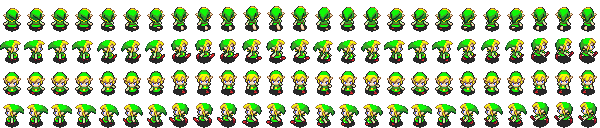
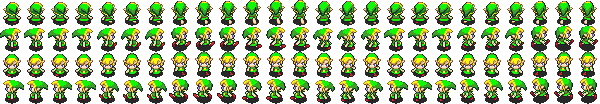
add entity struct

diff --git a/topdwn.c b/topdwn.c
@@ -12,12 +12,21 @@
 #define ANIM_FPS 30
 #define FRAMES 24
 #define SPRITE_W 24
-#define SPRITE_H 32
+#define SPRITE_H 26
 
 #define UP    keys[SDL_SCANCODE_UP]
 #define DOWN  keys[SDL_SCANCODE_DOWN]
 #define LEFT  keys[SDL_SCANCODE_LEFT]
 #define RIGHT keys[SDL_SCANCODE_RIGHT]
+
+typedef struct			s_entity
+{
+	SDL_Rect		dst;
+	SDL_Rect		src;
+	SDL_Texture		*tex;
+	SDL_Point		mov;
+	int				dir;
+}						t_entity;
 
 int		init(SDL_Window **win, SDL_Renderer **render)
 {
@@ -66,15 +75,15 @@ SDL_Texture	*load_img(SDL_Renderer *render, char *path)
 	return (tex);
 }
 
-void	load_player(SDL_Renderer *render, SDL_Texture **tex, SDL_Rect *src, SDL_Rect *dst)
+void	load_player(SDL_Renderer *render, t_entity *p)
 {
-	*tex = load_img(render, "test.png");
-	dst->w = SPRITE_W * 4;
-	dst->h = SPRITE_H * 4;
-	dst->x = (WIN_W / 2) - (dst->w / 2);
-	dst->y = (WIN_H / 2) - (dst->h / 2);
-	src->w = SPRITE_W;
-	src->h = SPRITE_H;
+	p->tex = load_img(render, "test.png");
+	p->dst.w = SPRITE_W * 4;
+	p->dst.h = SPRITE_H * 4;
+	p->dst.x = (WIN_W / 2) - (p->dst.w / 2);
+	p->dst.y = (WIN_H / 2) - (p->dst.h / 2);
+	p->src.w = SPRITE_W;
+	p->src.h = SPRITE_H;
 }
 
 
@@ -97,17 +106,21 @@ void	handle_keys(SDL_Window *win, const Uint8 *keys, int *dir, SDL_Point *mov)
 	SDL_PumpEvents();
 	mov->x = (LEFT || RIGHT) * SPEED * (-1 * (!RIGHT) + RIGHT);
 	mov->y = (UP || DOWN) * SPEED * (-1 * UP + (!UP));
+}
+
+void	move(SDL_Rect *dst, SDL_Point *mov)
+{
+	mov->x = (dst->x + mov->x < 0) ? mov->x - (dst->x + mov->x) : mov->x;
+	mov->x = (dst->x + mov->x + dst->w > WIN_W) ? mov->x - (dst->w + dst->x - WIN_W) : mov->x;
+	mov->y = (dst->y + mov->y < 0) ? mov->y - (dst->y + mov->y) : mov->y;
+	mov->y = (dst->y + mov->y + dst->h > WIN_H) ? mov->y - (dst->h + dst->y - WIN_H) : mov->y;
 	if (mov->x && mov->y)
 	{
 		mov->x /= 2;
 		mov->y /= 2;
 	}
-}
-
-void	move(SDL_Rect *dst, SDL_Point mov)
-{
-		dst->x += mov.x;
-		dst->y += mov.y;
+	dst->x += mov->x;
+	dst->y += mov->y;
 }
 
 void	anim(SDL_Rect *src, int dir, const Uint8 *keys)
@@ -131,26 +144,26 @@ void	anim(SDL_Rect *src, int dir, const Uint8 *keys)
 
 void	loop(SDL_Window *win, SDL_Renderer *render)
 {
-	SDL_Rect		dst;
-	SDL_Rect		src;
-	SDL_Texture		*tex;
+	t_entity		p;
 	const Uint8		*keys = SDL_GetKeyboardState(NULL);
-	SDL_Point		mov;
-	int				dir;
 	unsigned int	ticks;
 
-	load_player(render, &tex, &src, &dst);
-	dir = 2;
+	load_player(render, &p);
+	p.dir = 2;
 	while (!SDL_QuitRequested())
 	{
-		handle_keys(win, keys, &dir, &mov);
-		move(&dst, mov);
-		anim(&src, dir, keys);
+		printf("x = %d, y = %d\n", p.mov.x, p.mov.y);
+		handle_keys(win, keys, &(p.dir), &(p.mov));
+		move(&(p.dst), &(p.mov));
+		anim(&(p.src), p.dir, keys);
 		ticks = SDL_GetTicks() + (1000 / FPS);
-		while (SDL_GetTicks() < ticks);
-		SDL_RenderCopy(render, tex, &src, &dst);
+//		SDL_SetRenderDrawColor(render, 127, 85, 22, 255);
+//		SDL_RenderFillRect(render, &(p.dst));
+//		SDL_SetRenderDrawColor(render, 22, 64, 127, 255);
+		SDL_RenderCopy(render, p.tex, &(p.src), &(p.dst));
 		SDL_RenderPresent(render);
 		SDL_RenderClear(render);
+		while (SDL_GetTicks() < ticks);
 	}
 }
 
